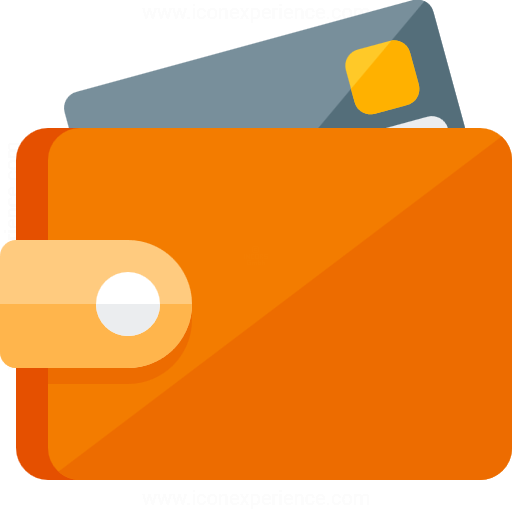
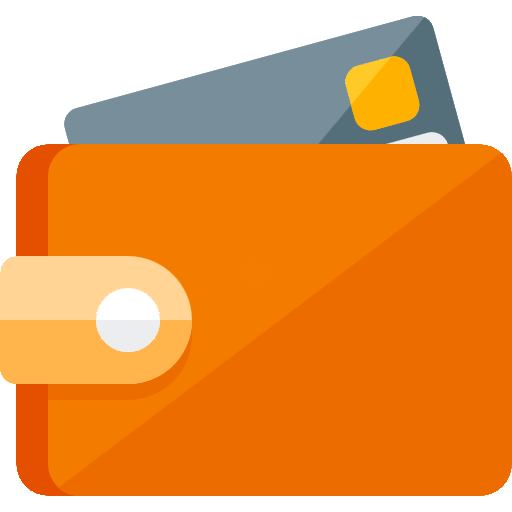
Improve user menu, index page, footer

Changed region(s): [[0.0312, 0.0, 1.0, 0.3438], [0.0, 0.4688, 0.375, 0.75], [0.0312, 0.875, 1.0, 0.9688]]

diff --git a/app/assets/stylesheets/custom.css b/app/assets/stylesheets/custom.css
@@ -1,7 +1,20 @@
-.alert-notice {
-	@extend .alert-success
+html {
+	padding: 0;
 }
 
+/* devise alert */
+
+.alert-notice {
+	@extend .alert-success
+} 
+
+.alert-alert {
+	@extend .alert-danger
+}
+
+/* end devise alert */
+
+/* sign up, log in, restore password forms */
 .user-form {
 	margin: 0 auto;
 	width: 400px;
@@ -22,4 +35,76 @@
 		}
 	}
 
+	.back-link {
+		display: block;
+		margin: 10px auto;
+		max-width: 40px;
+	}
+
 }
+
+/* end forms */
+
+/* index page */
+
+.lead > a {
+	display: block;
+	max-width: 150px;
+	margin: 10px auto;
+} 
+
+.jumbotron {
+	background-image: url("wallet.png");
+	background-position: left;
+	background-repeat: no-repeat;
+	background-size: 40%
+}
+
+.plank {
+	border-top: 1px solid #aeaeae;
+}
+
+/* end index page */
+
+/* footer */
+
+.footer {
+	border-top: 1px solid #989898;
+	margin-top: 20px;
+	color: #555;
+	height: 50px;
+}
+
+.footer .navbar {
+	margin-bottom: 0;
+}
+
+.footer-menu {
+	list-style: none;
+}
+.footer-menu:after {
+	clear: both;
+	font-size: 0;
+	height: 0;
+	content: " ";
+}
+
+.footer .inc {
+	float: left;
+	margin-top: 10px;
+}
+
+.footer-menu li {
+	float: right;
+}
+
+.footer-menu a {
+	color: #999;
+}
+
+.footer-menu a:hover {
+	color: #222;
+}
+
+/* end footer */
+

diff --git a/config/routes.rb b/config/routes.rb
@@ -6,7 +6,7 @@ Rails.application.routes.draw do
 
 	resources :users do
 		member do
-			get :income, :expose
+			get :income, :expose, :report
 		end
 	end
   # For details on the DSL available within this file, see http://guides.rubyonrails.org/routing.html

diff --git a/app/controllers/users_controller.rb b/app/controllers/users_controller.rb
@@ -7,4 +7,8 @@ class UsersController < ApplicationController
 
 	end
 
+	def report
+		
+	end
+
 end
